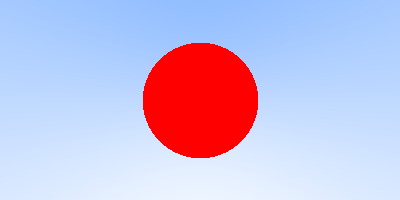
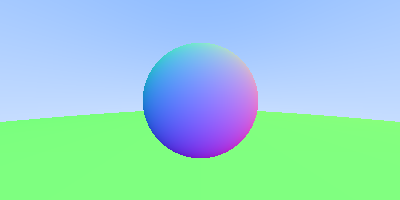
chapter 5

diff --git a/main.cpp b/main.cpp
@@ -1,20 +1,12 @@
 #define STB_IMAGE_WRITE_IMPLEMENTATION
 
+#include "hitableList.h"
 #include "ray.h"
+#include "sphere.h"
 #include "stb_image_write.h"
-#include "vec3.h"
 #include <cstdint>
 #include <iostream>
 
-bool hitSphere(const vec3& center, float radius, const ray& r)
-{
-    vec3 oc = r.origin - center;
-    float a = vec3::dot(r.direction, r.direction);
-    float b = 2.f * vec3::dot(oc, r.direction);
-    float c = vec3::dot(oc, oc) - (radius * radius);
-    float discriminant = (b * b) - (4 * a * c);
-    return discriminant > 0;
-}
 vec3 backgroundColor(const ray& r)
 {
     vec3 unit = r.direction;
@@ -22,19 +14,23 @@ vec3 backgroundColor(const ray& r)
     float t2 = 0.5f + (0.5f * unit.y);
     return t1 * vec3(1.f, 1.f, 1.f) + t2 * vec3(0.5f, 0.7f, 1.f);
 }
-vec3 color(const ray& r)
+vec3 color(const ray& r, const hitable* world, const float minDistance, const float maxDistance)
 {
-    if (hitSphere(vec3(0, 0, -1), 0.5f, r)) {
-        return vec3(1.f, 0.f, 0.f);
+    hitRecord rec;
+    bool isHit = world->hit(r, minDistance, maxDistance, rec);
+    if (isHit) {
+        return 0.5f * (rec.normal + 1);
     }
     return backgroundColor(r);
 }
 int main()
 {
-    const int channels = 4; // STBI_rgb_alpha
     const int w = 400;
     const int h = 200;
-    // Create image data
+    const float minDistance = 0.f;
+    const float maxDistance = 10000.f;
+    // Output image data
+    const int channels = 4; // STBI_rgb_alpha
     unsigned char* data = new unsigned char[w * h * channels];
 
     vec3 upperLeftCorner(-2.f, 1.f, -1.f);
@@ -42,12 +38,17 @@ int main()
     vec3 vertical(0.f, -2.f, 0.f);
     vec3 origin(0.f, 0.f, 0.f);
 
+    hitable* list[2];
+    list[0] = new sphere(vec3(0, 0, -1), 0.5f);
+    list[1] = new sphere(vec3(0, -100.5f, -1), 100);
+    hitable* world = new hitableList(list, 2);
+
     for (int j = 0; j < h; ++j) {
         for (int i = 0; i < w; ++i) {
             float u = float(i) / float(w);
             float v = float(j) / float(h);
             ray r(origin, upperLeftCorner + u * horizontal + v * vertical);
-            vec3 col = color(r);
+            vec3 col = color(r, world, minDistance, maxDistance);
 
             int index = ((j * w) + i) * channels;
             data[index + 0] = (unsigned char)(col.x * 255.99f);
@@ -61,5 +62,10 @@ int main()
     if (ret == 0) {
         std::cout << "problem at stbi_write_png" << std::endl;
     }
+
+    delete world;
+    delete list[0];
+    delete list[1];
+
     return 0;
 }

diff --git a/sphere.h b/sphere.h
@@ -1,0 +1,41 @@
+#ifndef SPHERE_H
+#define SPHERE_H
+
+#include "hitable.h"
+
+class sphere : public hitable
+{
+  public:
+    sphere(){};
+    sphere(vec3 center, float radius) : center(center), radius(radius){};
+    virtual bool hit(const ray& r, float tMin, float tMax, hitRecord& rec) const
+    {
+        vec3 oc = r.origin - center;
+        float a = vec3::dot(r.direction, r.direction);
+        float b = vec3::dot(oc, r.direction);
+        float c = vec3::dot(oc, oc) - radius * radius;
+        float discriminant = b * b - a * c;
+        if (discriminant > 0) {
+            float temp = (-b - sqrt(b * b - a * c)) / a;
+            if (temp < tMax && temp > tMin) {
+                rec.distance = temp;
+                rec.point = r.getPoint(rec.distance);
+                rec.normal = (rec.point - center) / radius;
+                return true;
+            }
+            temp = (-b + sqrt(b * b - a * c) / a);
+            if (temp < tMax && temp > tMin) {
+                rec.distance = temp;
+                rec.point = r.getPoint(rec.distance);
+                rec.normal = (rec.point - center) / radius;
+                return true;
+            }
+        }
+        return false;
+    };
+
+    vec3 center;
+    float radius;
+};
+
+#endif

diff --git a/hitableList.h b/hitableList.h
@@ -1,0 +1,32 @@
+#ifndef HITABLELIST_H
+#define HITABLELIST_H
+
+#include "hitable.h"
+
+class hitableList : public hitable
+{
+  public:
+    hitableList(){};
+    hitableList(hitable** list, unsigned int count) : list(list), count(count){};
+    virtual bool hit(const ray& r, float tMin, float tMax, hitRecord& rec) const
+    {
+        hitRecord temp;
+        bool hitAnything = false;
+        float closest = tMax;
+        for (int i = 0; i < count; ++i) {
+            hitable* h = list[i];
+            bool isHit = h->hit(r, tMin, closest, temp);
+            if (isHit) {
+                closest = temp.distance;
+                rec = temp;
+                hitAnything = true;
+            }
+        }
+        return hitAnything;
+    }
+
+    hitable** list;
+    unsigned int count;
+};
+
+#endif

diff --git a/hitable.h b/hitable.h
@@ -1,0 +1,18 @@
+#ifndef HITABLE_H
+#define HITABLE_H
+
+#include "ray.h"
+
+struct hitRecord {
+    float distance;
+    vec3 point;
+    vec3 normal;
+};
+
+class hitable
+{
+  public:
+    virtual bool hit(const ray& r, float tMin, float tMax, hitRecord& rec) const = 0;
+};
+
+#endif
